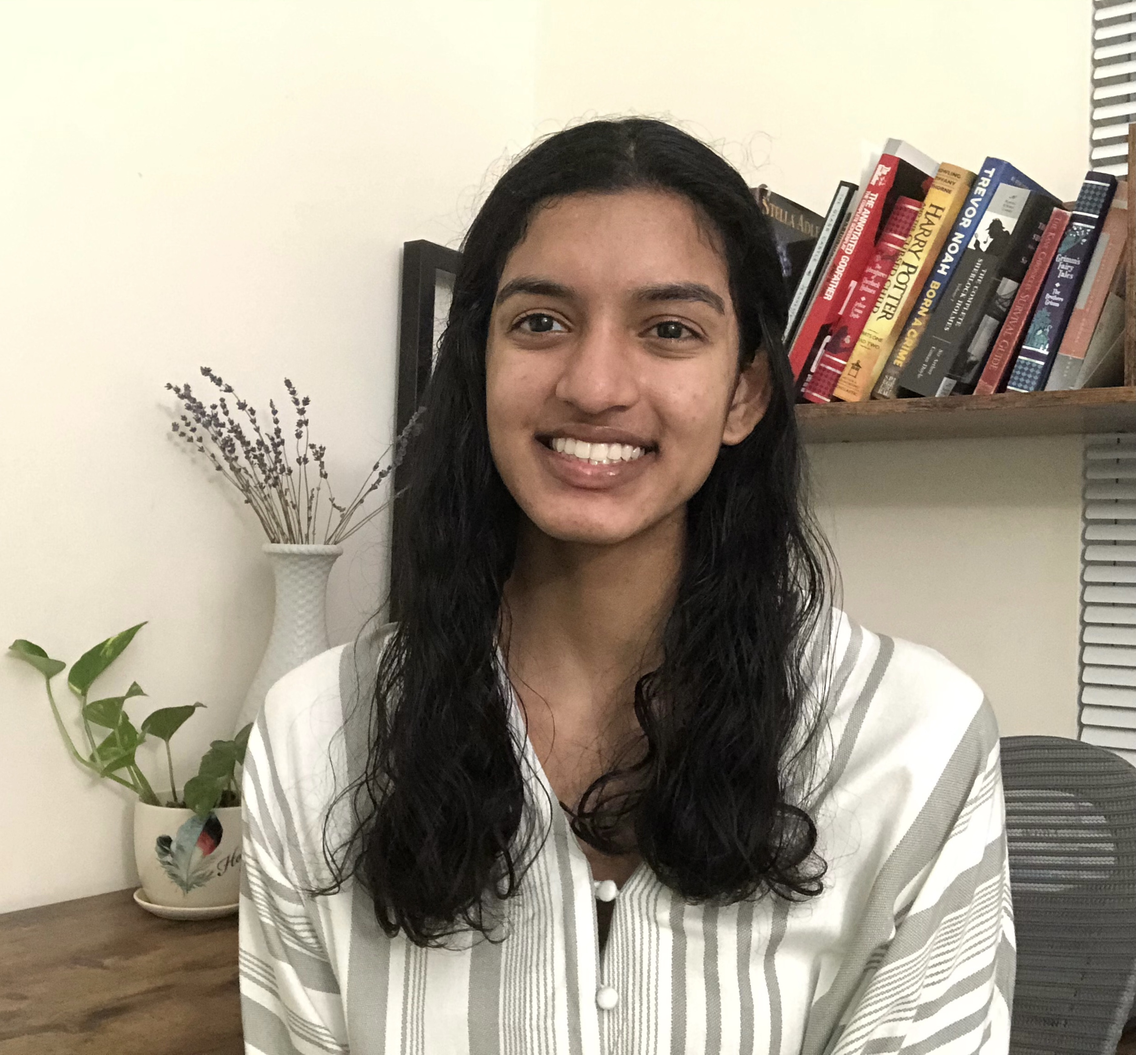
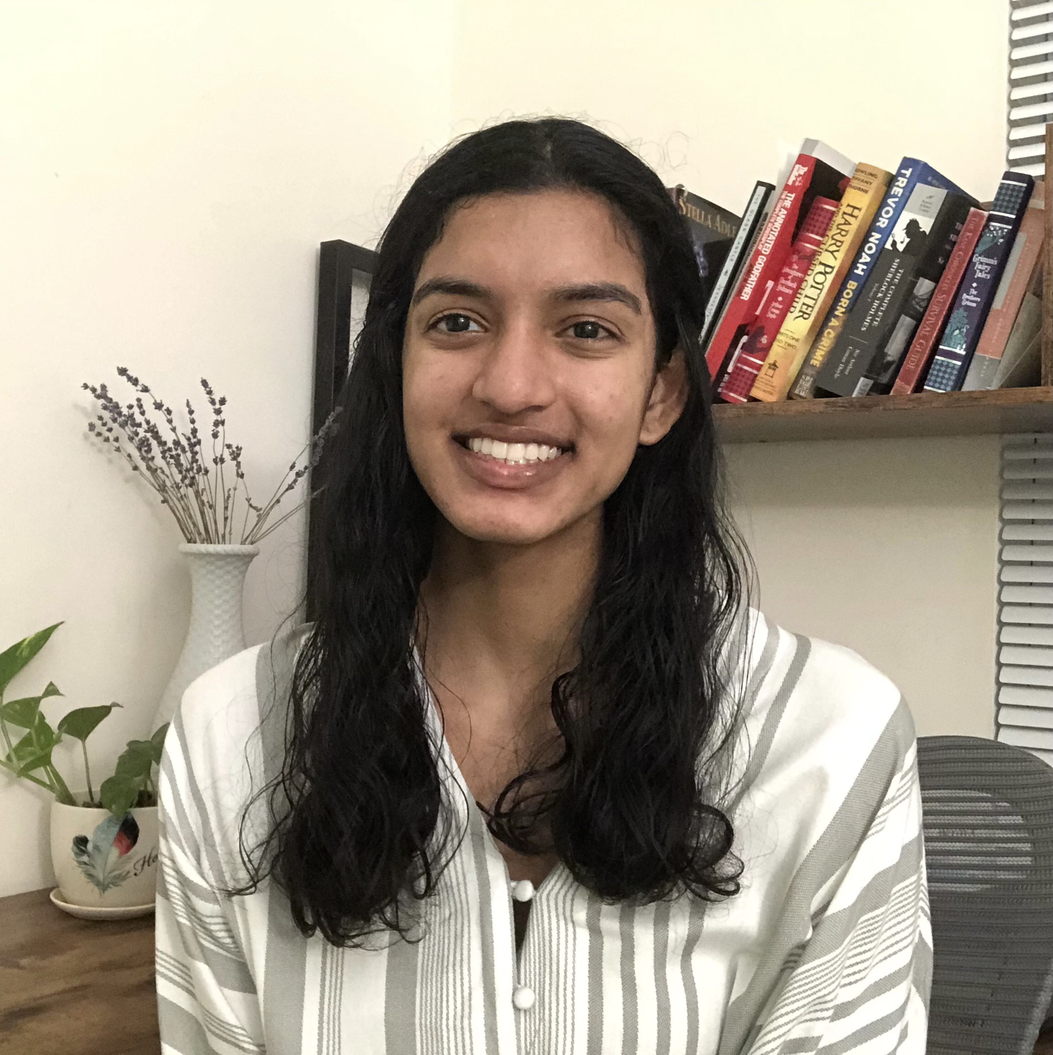
Updated masthead/testim, corrected team pics

diff --git a/index.html b/index.html
@@ -60,7 +60,7 @@
         </nav>
 
         <!-- Masthead static-->
-        <!-- <header class="masthead">
+        <header class="masthead">
             <div class="container">
             </br>
             </br>
@@ -69,21 +69,9 @@
                  <img src="assets/img/logo-custom-wh.png" width="80%" alt="">
                </div>
             </div>
-        </header> -->
-
-        <!-- Masthead video-->
-        <header class="masthead videoWrap">
-          <video playsinline="playsinline" autoplay="autoplay" muted="muted" loop="loop" id="vid">
-            <source src="assets/img/Class-comp-10s-dark-blur.mp4" type="video/mp4" />
-          </video>
-            <div class="container">
-            </br>
-            </br>
-               <div class="heading-logo">
-                 <img src="assets/img/logo-custom-wh.png" width="80%" alt="" id="header-image">
-               </div>
-            </div>
         </header>
+
+     
 
 
         <!-- Mission-->
@@ -93,7 +81,7 @@
                     <h2 class="section-heading text-uppercase">About Us</h2>
                     <div class="row about-top-row">
                         <div> <!--class="col-huge-6 col-md-fill" -->
-                            <h4 class="text-muted">Our Work</h4>
+                            <!-- <h4 class="text-muted">Our Work</h4> -->
                             <p>Brave Behind Bars, based out of <a href="https://www.teji.mit.edu/">The Educational Justice Institute at MIT</a>, is an introductory computer science and career-readiness program for incarcerated people. Taught both online and in-person, our Summer '21 pilot cohort brought together 25 women from four correctional facilities across New England. In Summer '22, we expanded our program to include 40 men and women from six correctional facilities across the eastern United States. Together, our students develop skills in digital literacy, web design, and career-readiness, building websites to help address some of society's most pressing issues.</p>
                             <!-- <a href="#portfolio" class="btn btn-primary btn-xl text-uppercase">See Examples</a> -->
                         </div>
@@ -424,7 +412,7 @@
             <div class="container">
                 <div class="text-center">
                     <h2 class="section-heading text-uppercase">Our Team</h2>
-                    <h3 class="section-subheading text-muted">Brave Behind Bars was launched by Martin, Marisa, and Emily in September 2020. Since then, we have been joined by a number of affiliates who instruct and coach students.</h3>
+                    <h3 class="section-subheading text-muted">Brave Behind Bars was launched by Martin, Marisa, and Emily in September 2020. Since then, we have been joined by two dozen affiliates who instruct and coach students.</h3>
                 </div>
                 <div class="row">
                     <div class="col-md-4">
@@ -478,7 +466,7 @@
 
                         <div class="col-md-10">
 
-                        <h3 class="section-subheading text-muted">We are grateful for our amazing team of coaches, who bring a wide array of perspectives and professional experiences to the table. Our 2021-20222 coaches have included undergraduate students, graduate students, and faculty members from MIT and Harvard, professional software engineers, as well as formerly incarcerated graduates of our program. </h3>
+                        <h3 class="section-subheading text-muted">We are grateful for our amazing team of coaches, who bring a wide array of perspectives and professional experiences to the table. Our 2021-20222 coaches include undergraduate students, graduate students, and faculty members from MIT and Harvard, professional software engineers, and formerly incarcerated graduates of our program. </h3>
 
                         </div>
 
@@ -494,8 +482,8 @@
                     </div>
                     <div class="col-md-2">
                         <div class="team-member">
-                            <img class="mx-auto rounded-circle" src="assets/img/team/Anthony_Warnick.png" alt="..." />
-                            <h4>Anthony Warnick</h4>
+                            <img class="mx-auto rounded-circle" src="assets/img/team/Faraz_Faruqi.jpeg" alt="..." />
+                            <h4>Faraz Faruqi</h4>
                         </div>
                     </div>
                     <div class="col-md-2">
@@ -532,10 +520,11 @@
                     <div class="col-md-1" style="width: 8.33333333%">
                     </div>
 
+                    
                     <div class="col-md-2">
                         <div class="team-member">
-                            <img class="mx-auto rounded-circle" src="assets/img/team/Faraz_Faruqi.jpeg" alt="..." />
-                            <h4>Faraz Faruqi</h4>
+                            <img class="mx-auto rounded-circle" src="assets/img/team/Anthony_Warnick.png" alt="..." />
+                            <h4>Anthony Warnick</h4>
                         </div>
                     </div>
                     <div class="col-md-2">
@@ -695,10 +684,20 @@
             <!-- </div> -->
         </section>
 
+         
+
+
         <!-- Mission-->
        <section class="page-section" id="testimonials">
+
+          <!-- Masthead video-->
+        <div class="masthead "> 
+          <video playsinline="playsinline" autoplay="autoplay" muted="muted" loop="loop" id="vid">
+            <source src="assets/img/Class-comp-10s-dark-blur.mp4" type="video/mp4" />
+          </video>
+
             <div class="container">
-                <div class="text-center">
+                <div class="text-center heading-logo">
                     <h2 class="section-heading text-uppercase dark-bg">Student Testimonials</h2>
                     <br>
                     <div class="row top">
@@ -739,6 +738,11 @@
                     </div>
                 </div>
             </div>
+
+        </div>
+
+
+            
         </section> 
 
 

diff --git a/style.css b/style.css
@@ -1249,9 +1249,10 @@ p {
     margin-right: 0;
   }
 }
- header.masthead {
+ 
+ .masthead {
   padding-top: 10.5rem;
-  padding-bottom: 6rem;
+  padding-bottom: 10rem;
   text-align: center;
   color: #fff;
   background-image: url("assets/img/prison-1.jpg");
@@ -1260,15 +1261,12 @@ p {
   background-attachment: scroll;
   background-position: center center;
   background-size: cover;
+  position: relative;
+  overflow: hidden;
 } 
 
 /*Start of video code*/
 
-
-header {
- position: relative;
- overflow: hidden;
-}
 
 .heading-logo {
   position: relative;
@@ -1290,11 +1288,12 @@ header {
 /*End of video code*/
 
 #testimonials {
-  background-color: #212529;
+  padding-top: 0rem;
+  /*background-color: #212529;*/
 }
 
 
-@media (min-width: 768px) {
+/*@media (min-width: 768px) {
 
   #testimonials {
     background-image: linear-gradient(rgba(0, 0, 0, 0.65),rgba(0, 0, 0, 0.65)) , url("assets/img/prison-1.jpg");
@@ -1306,25 +1305,25 @@ header {
     padding-bottom: 30px;
   }
 
-}
+}*/
 
-@media (min-width: 992px) {
+/*@media (min-width: 992px) {
 
   #testimonials {
     background-image: linear-gradient(rgba(0, 0, 0, 0.65),rgba(0, 0, 0, 0.65)) , url("assets/img/prison-1.jpg");
     background-size: cover;
     height: 700px;
   }
-}
+}*/
 
-@media (min-width: 1200px) {
+/*@media (min-width: 1200px) {
 
   #testimonials {
     background-image: linear-gradient(rgba(0, 0, 0, 0.65),rgba(0, 0, 0, 0.65)) , url("assets/img/prison-1.jpg");
     background-size: cover;
     height: 600px;
   }
-}
+}*/
 
 
 #logo-section {
